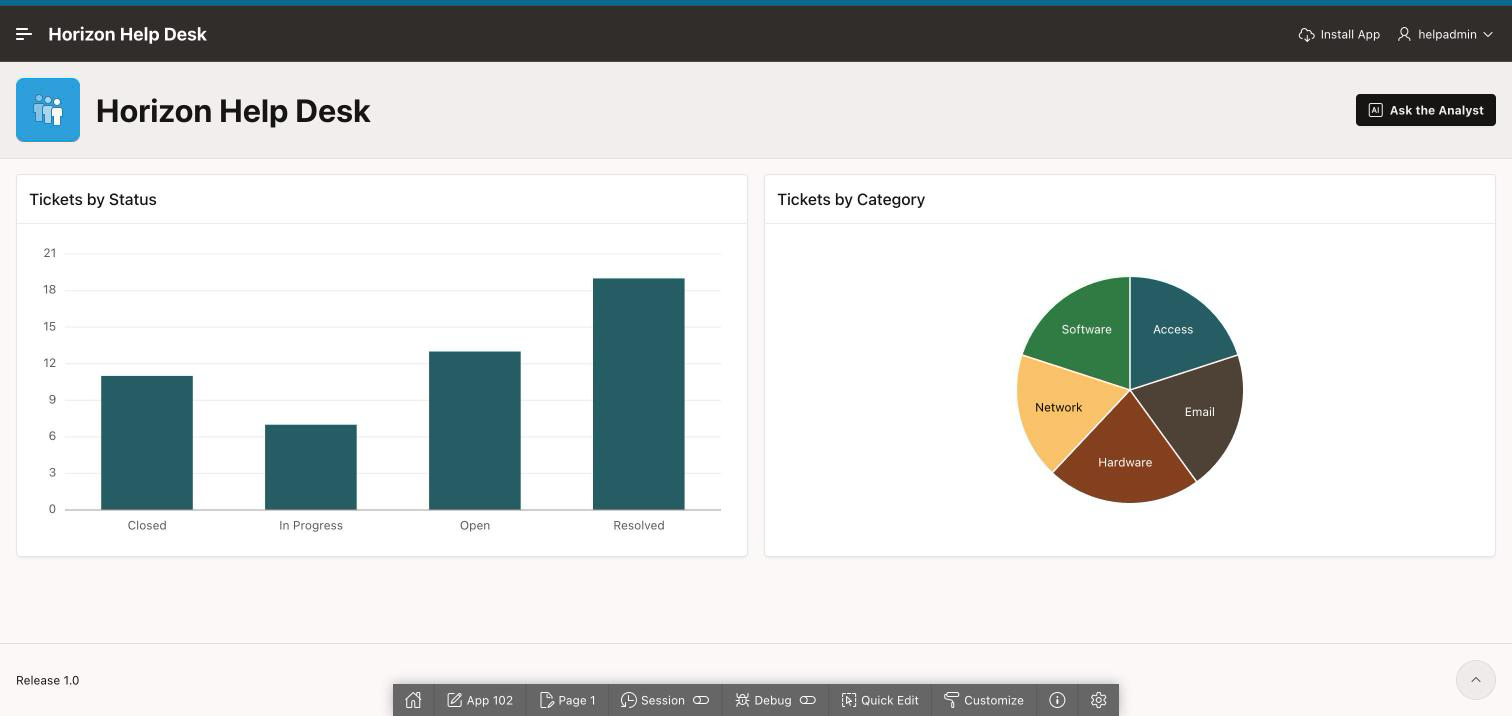
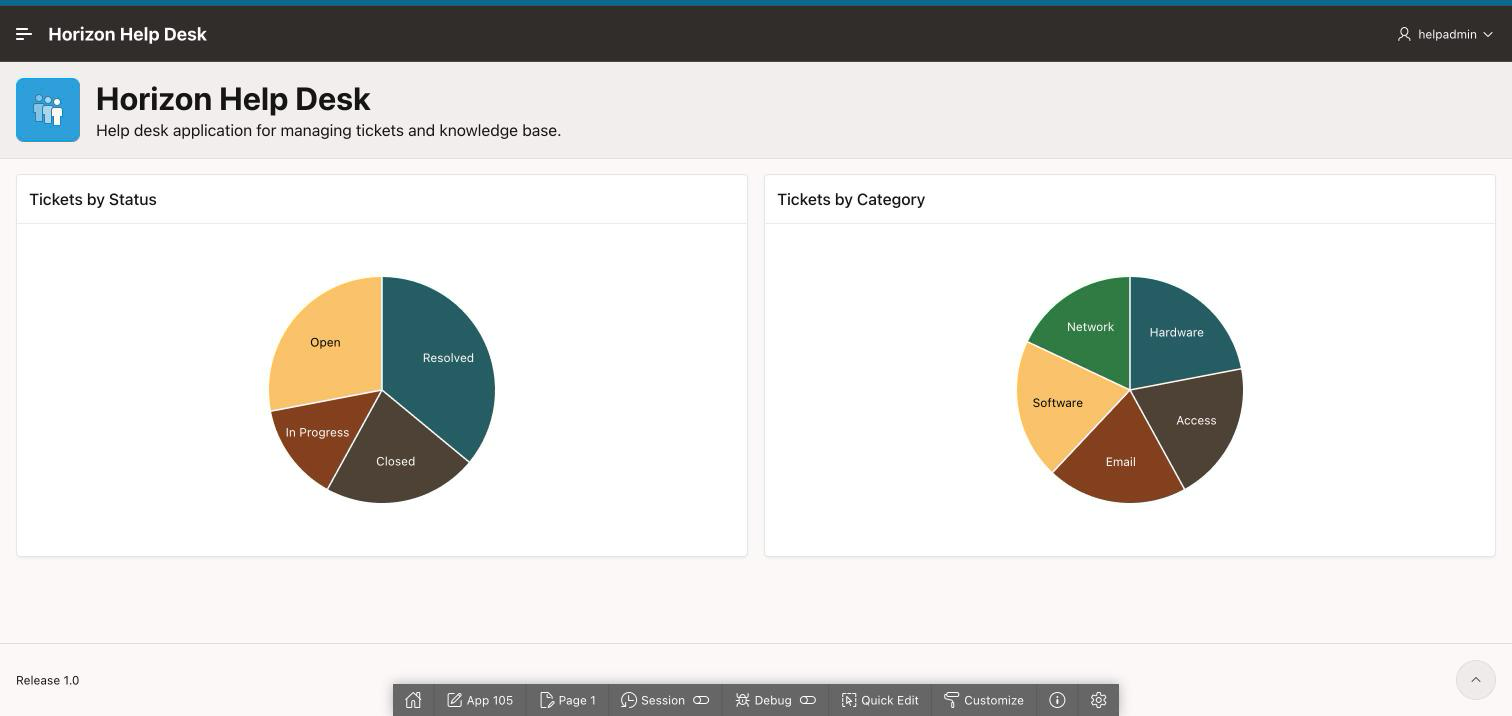
Lab 3: delete the two placeholder charts the Dashboard ships with
The generated Dashboard page has four chart slots. The prompt fills two, and
Charts 3 and 4 render invented "Series A".."Series E" data. Page Designer
confirms Chart 3's Source Location is None - a dummy region, not a
misconfigured one - so every reader would ship a dashboard with two fake charts.

Task 2 now says to delete the Chart 3 and Chart 4 tabs in the Edit dialog,
alongside setting Count on Charts 1 and 2.

Verified end to end on app 105: with Count set and the placeholders removed,
both charts render real ticket counts and ORA-20987 does not occur.
app-running.png and finished-dashboard.png re-captured from that app so the
shipped images match what the corrected lab produces.

Claude-Session: https://claude.ai/code/session_01Roi77wP42pEGuuHzavMxaT

diff --git a/ai-helpdesk-agent/3-generate-app/3-generate-app.md b/ai-helpdesk-agent/3-generate-app/3-generate-app.md
@@ -79,11 +79,17 @@ blueprint editor, and fiddly to change after the app exists.
     | # | Check | Needed by |
     |---|---|---|
     | 1 | **Dashboard** is listed **first** — it must become page 1; rename it if the AI called it Overview | Lab 5 |
-    | 2 | Dashboard has a **tickets by status** chart and a **tickets by category** chart — click its **Edit**, and on *both* the **Chart 1** and **Chart 2** tabs set the aggregation to **Count** | the Lab 3 tour |
+    | 2 | Dashboard has a **tickets by status** chart and a **tickets by category** chart — click its **Edit**, set the aggregation to **Count** on *both* the **Chart 1** and **Chart 2** tabs, then **delete Chart 3 and Chart 4** | the Lab 3 tour |
     | 3 | A page named **Tickets** whose type is **Interactive Report** — **rename it here** if the AI called it something else | **Lab 4** |
     | 4 | The Tickets entry also produces an **editable form** on TICKETS | **Lab 6** |
     | 5 | A page named **Knowledge Base** reporting on KB_ARTICLES — rename it if the AI called it Article Library | the tour |
     | 6 | There is only **one** page named Tickets | Lab 4 tells you to open "the Tickets page" |
+
+    > **🔴 The Dashboard page has four chart slots, and you only asked for two.** Charts 3 and 4 ship
+    > filled with **placeholder data** — a line chart and a pie chart of invented "Series A" to
+    > "Series E" values. They are not tied to your tables and they make the finished dashboard look
+    > broken. In the **Edit** dialog, open the **Chart 3** tab and click **Delete**, then do the same
+    > on **Chart 4**. Like everything else here, free now and fiddly once the app exists.
 
     > **Check 3 is the one that bites.** Lab 4's AI features exist **only** on Interactive Report regions. If the blueprint chose Faceted Search, Cards, or a plain Classic Report for Tickets, change the page type here — ten seconds, declarative. Left wrong, Lab 4 has no AI settings to turn on.
 

diff --git a/tasks/todo.md b/tasks/todo.md
@@ -731,3 +731,18 @@ the Chart 1 and Chart 2 tabs. Value Column flips to *All Columns* (`count(*)`), 
 clicks, declarative, at the exact moment the lab already says "free to change now, fiddly later" — which is
 where the fix belonged all along. The Page Designer SQL rewrite survives as recovery for anyone who
 already created the app.
+
+### Lab 3 — placeholder Chart 3 / Chart 4 (2026-08-31)
+
+The generated Dashboard page ships **four** chart slots. The prompt fills two, and **Charts 3 and 4 render
+fabricated placeholder data** — a line chart and a pie chart of "Series A" … "Series E". Confirmed in Page
+Designer: Chart 3's region has **Source Location = `None`**, so it is a dummy region, not a misconfigured
+one. Every reader following this lab would ship a dashboard with two fake charts on it.
+
+Fixed in Lab 3 Task 2: delete the **Chart 3** and **Chart 4** tabs in the Edit dialog, alongside setting
+Count on Charts 1 and 2. Both are free in the blueprint and fiddly afterwards — which is the section's
+whole argument.
+
+`app-running.png` and `finished-dashboard.png` re-captured from app 105 after removing the two placeholder
+regions, so the shipped images show what a reader following the corrected lab actually gets: two real
+charts, correct counts, no ORA-20987.
